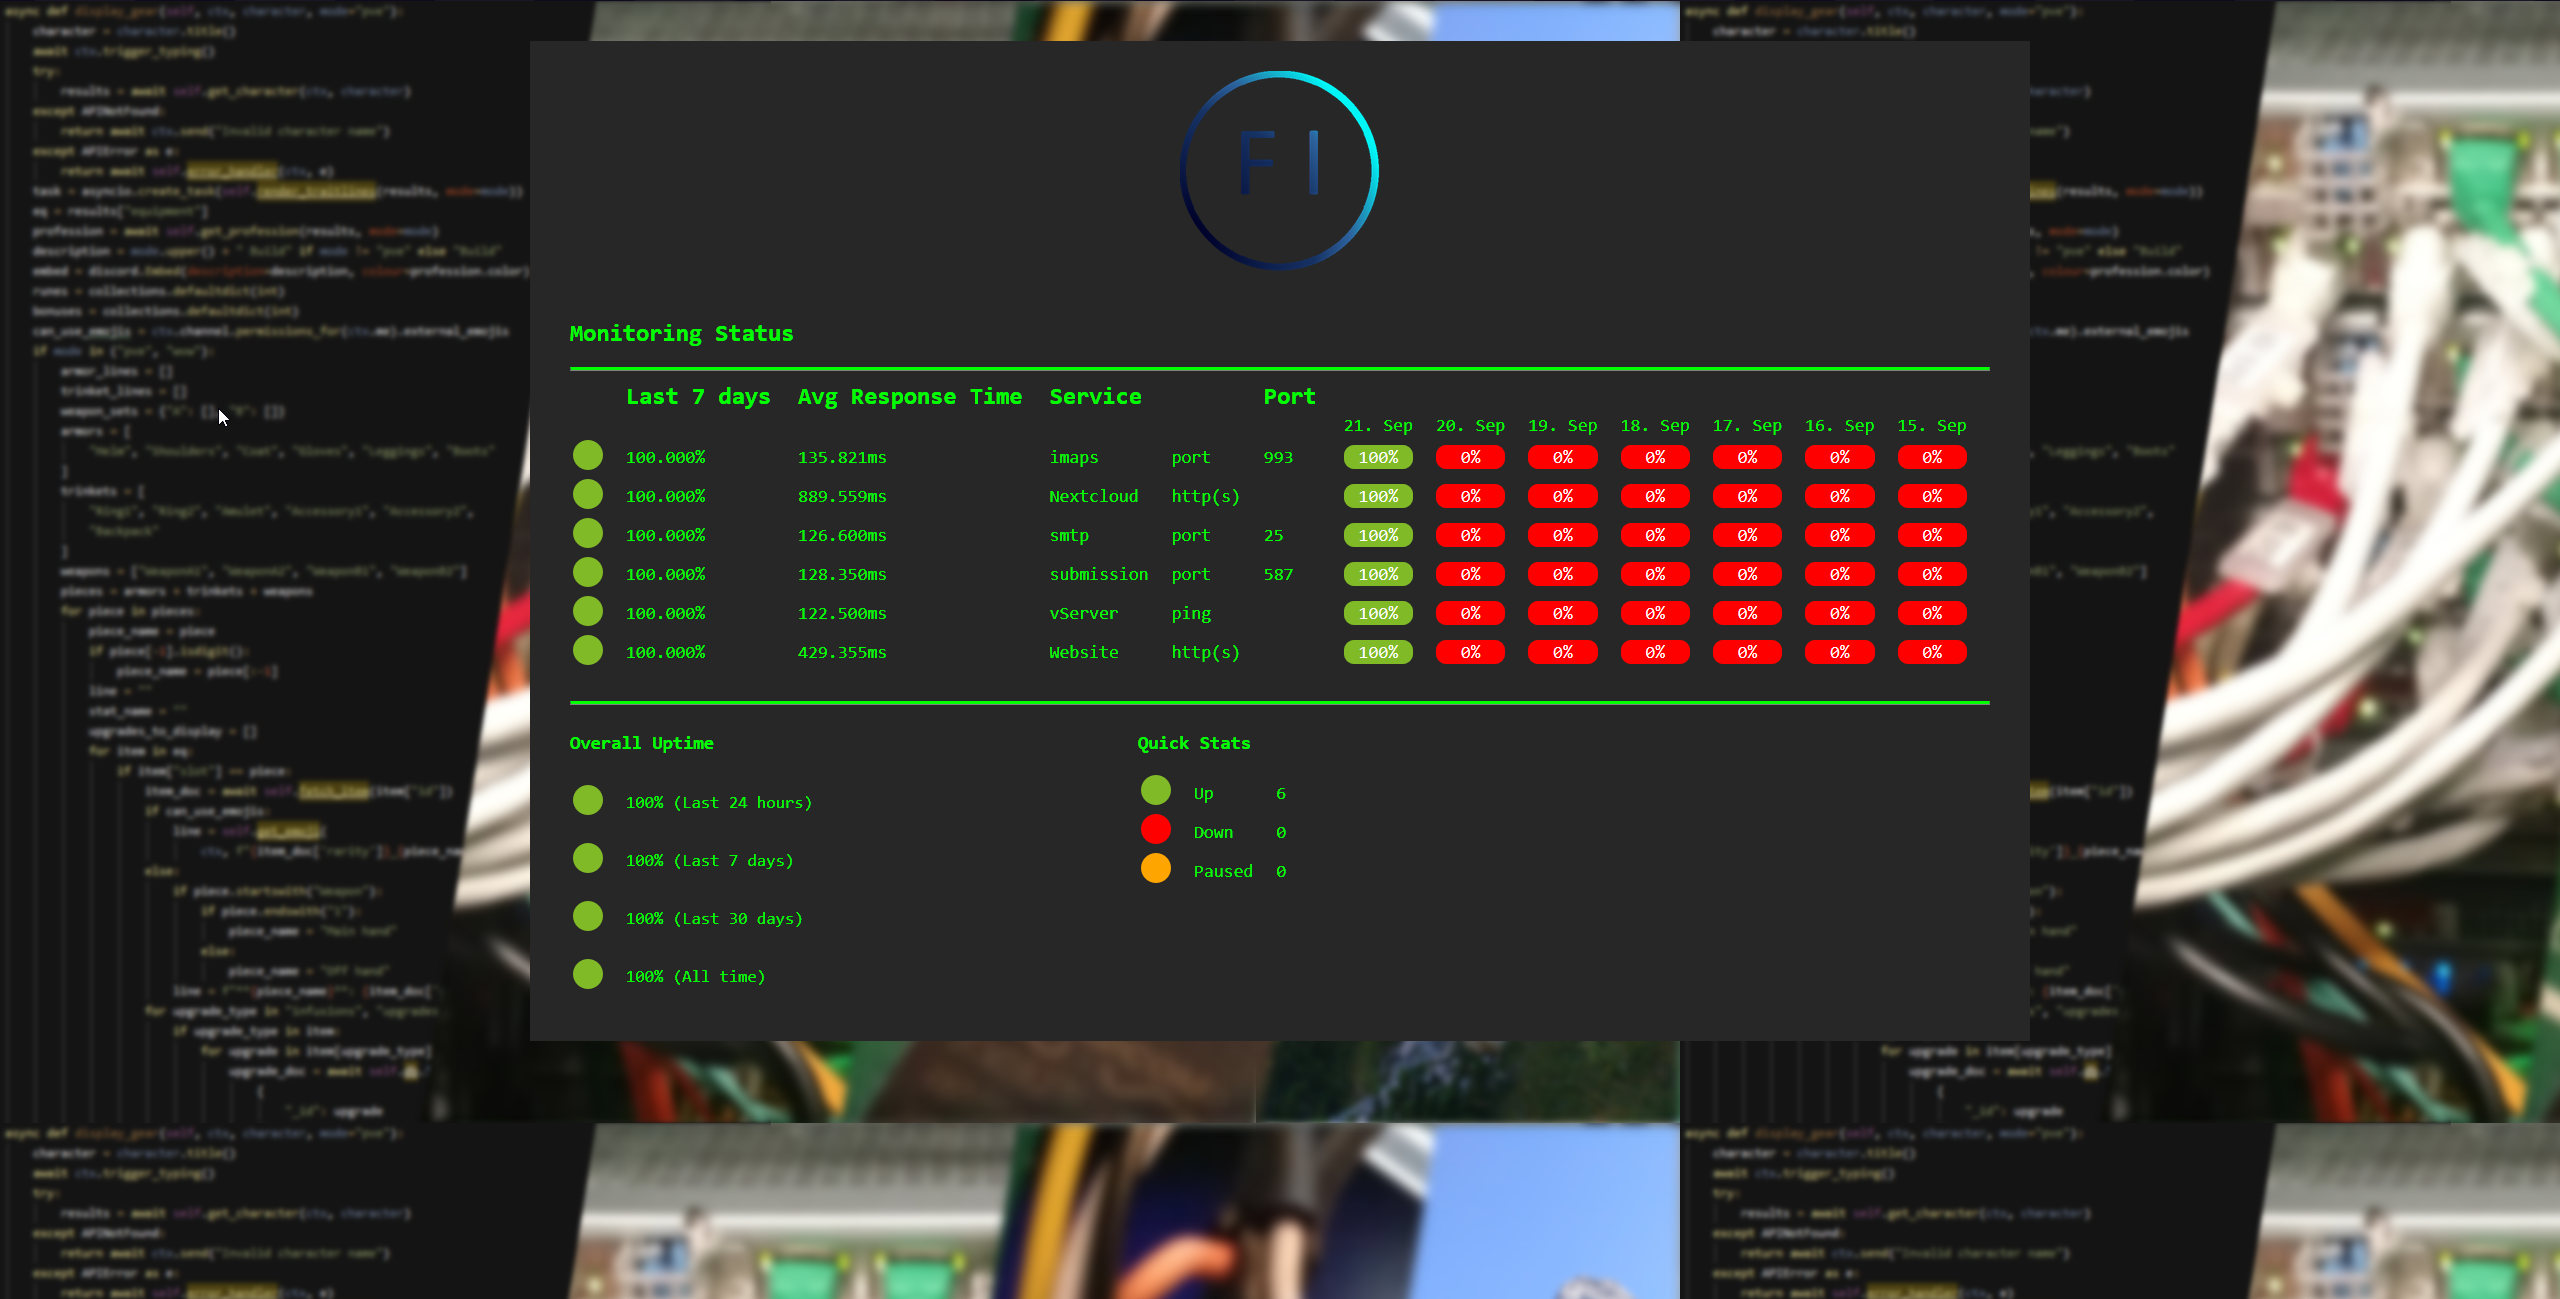
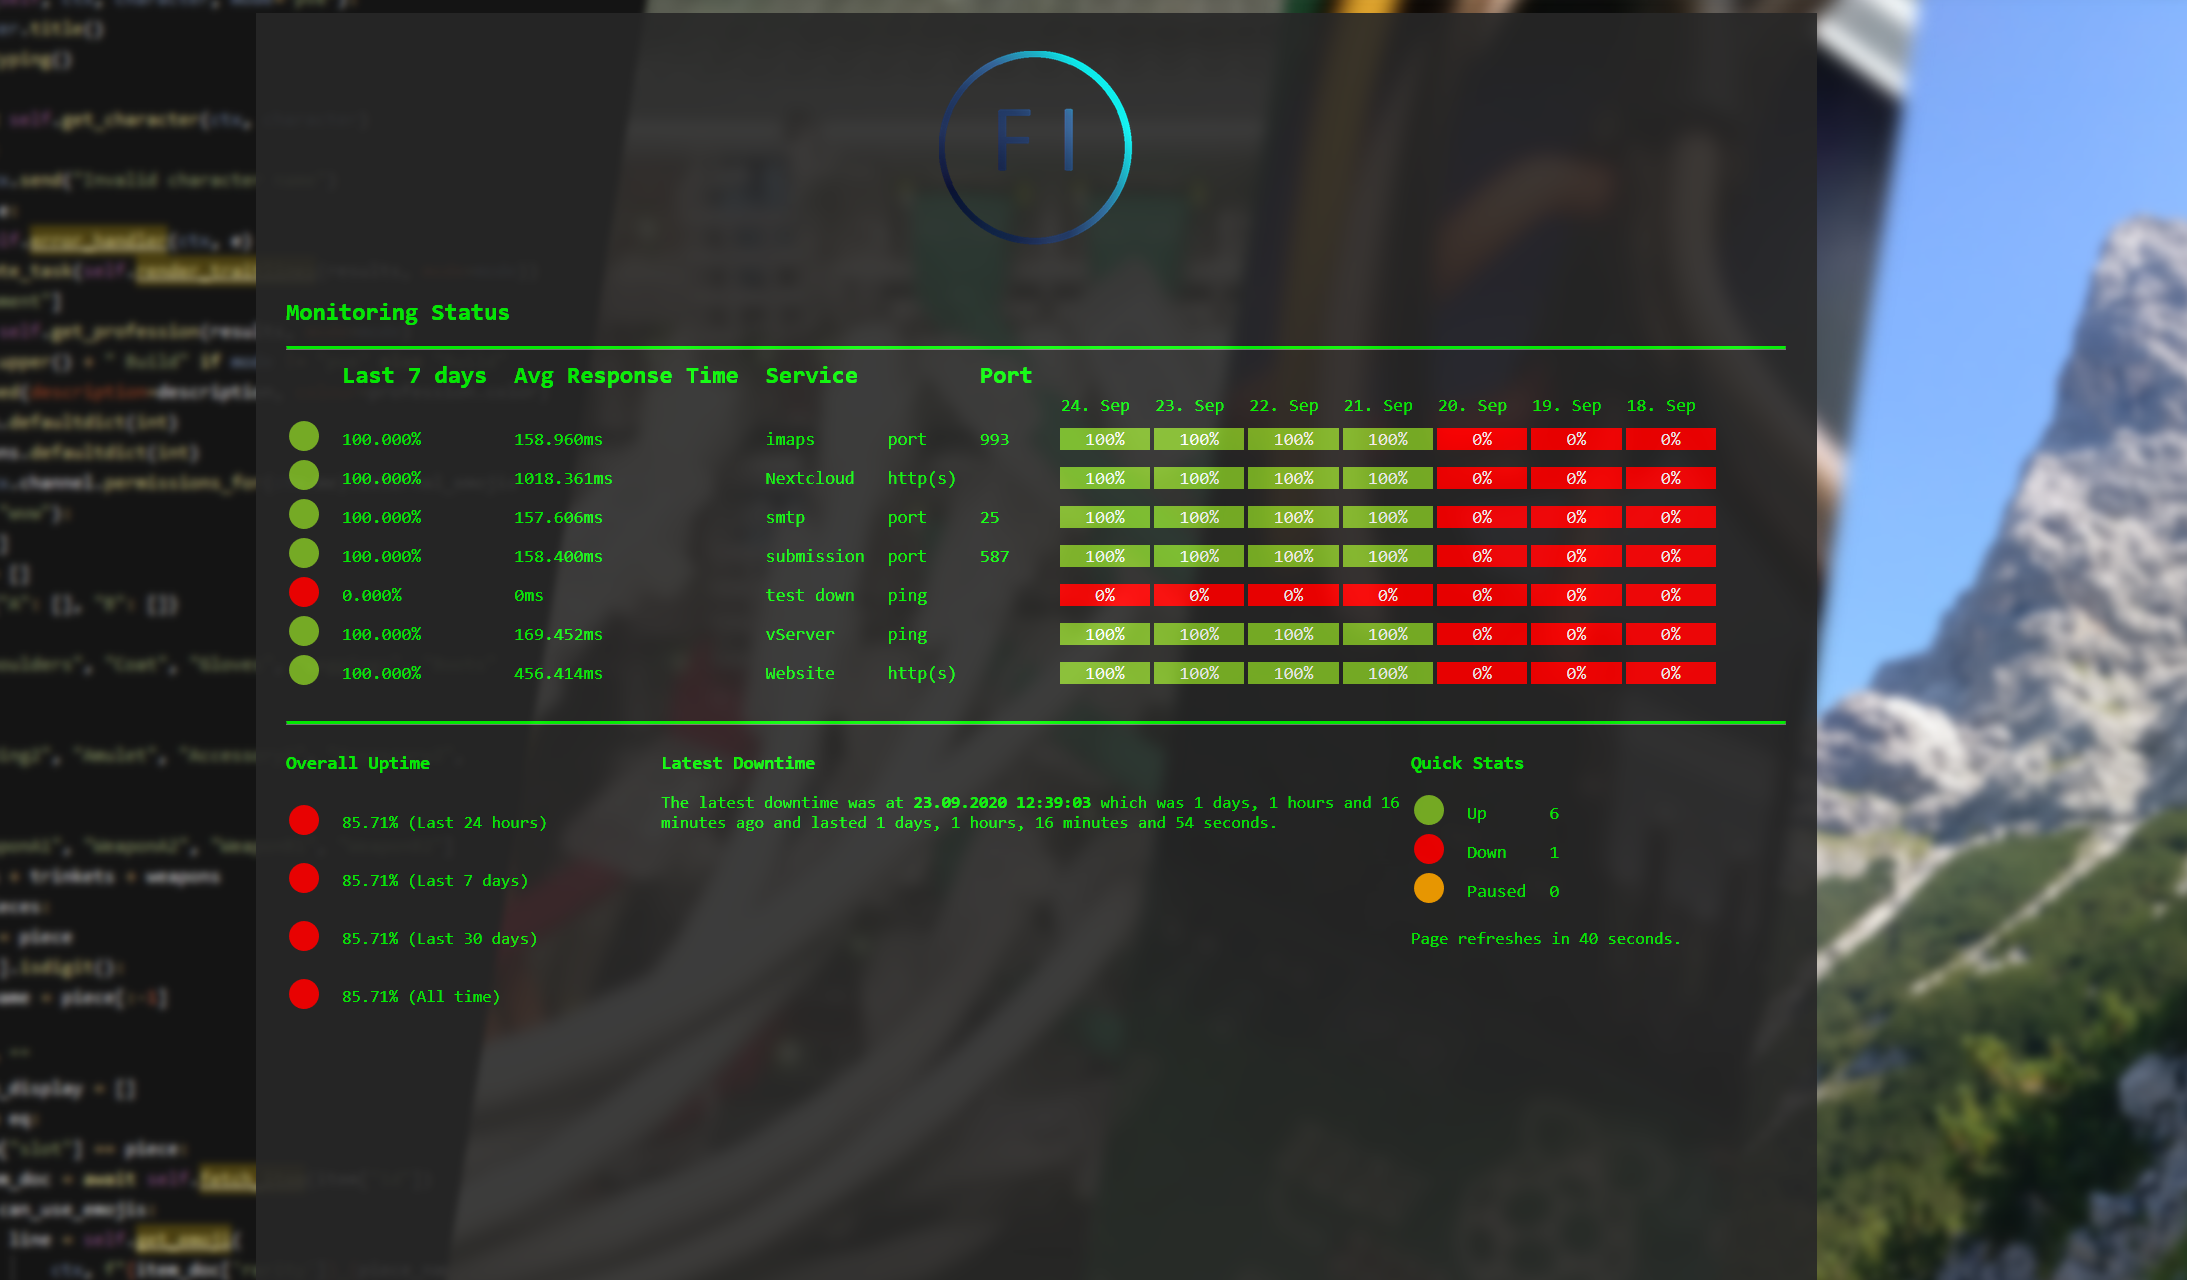
First attempt in making stuff responsive

diff --git a/status.css b/status.css
@@ -1,25 +1,59 @@
+html {
+  height: 100%;
+}
+
 body {
   max-width: 60%;
+  height: 100%;
   margin: auto;
   background-image: url("img/banner_filter.png");
+  background-attachment: fixed;
+  background-repeat: no-repeat;
+  background-size: cover;
   white-space: nowrap;
 }
 
+@media (max-width: 2000px) {
+  .desktop, .daily {
+    visibility: hidden;
+    padding: 0;
+    font-size: 0;
+  }
+  #leftbox, #middlebox, #rightbox{
+    float: none !important;
+  }
+
+  #content {
+    height: 150% !important;
+  }
+
+  .responseTime {
+    padding: 0;
+    font-size: 0;
+  }
+}
 #content {
-  background-color: #272727;
   padding-left: 2%;
   padding-right: 2%;
-  height: 1000px;
+  width: 100%;
+  max-width: 1500px;
+  height: 100%;
+  background-color: #272727;
+  opacity: 0.9;
 }
 
 #logo {
-  height: 20%;
+  height: 15%;
   margin-bottom: 1%;
   margin-top: 2%;
   padding-top: 2.5%;
   display: block;
   margin-left: auto;
   margin-right: auto;
+}
+
+#overview {
+  height: 20%;
 }
 
 p,

diff --git a/status.php b/status.php
@@ -25,9 +25,11 @@
 
         $monitors = callApi();
         createTable($monitors);
+        echo "<div id='overview'>";
         createUptimesSummaryTable($uptimes_sum, $uptimes_strings, $monitors);
         createQuickStatsTable($up, $down, $paused);
         createLastDownTimeTable($all_logs);
+        echo "</div>";
 
 
         function callApi()
@@ -117,7 +119,7 @@
                 echo "<tr>";
                 echo "<td><span class='bullet " . $bulletClass . "'></span></td>";
                 echo "<td>" . $uptime_7 . "%</td>";
-                echo "<td>" . $monitor["average_response_time"] . "ms </td>";
+                echo "<td class='desktop responseTime'>" . $monitor["average_response_time"] . "ms </td>";
                 echo "<td>" . $monitor["friendly_name"] . "</td>";
                 echo "<td>" . $types[$monitor["type"]] . "</td>";
                 echo "<td>" . $monitor["port"] . "</td>";
@@ -125,7 +127,7 @@
 
                 foreach ($uptimes_7_days as $day) {
                     $bulletClass = checkColor($day);
-                    echo "<td><div class='daily " . $bulletClass . "'>" . round($day, 2) . "%</div></td>";
+                    echo "<td class='daily desktop'><div class='" . $bulletClass . "'>" . round($day, 2) . "%</div></td>";
                 }
                 echo "</tr>";
             }
@@ -137,11 +139,11 @@
             echo "<hr>";
             echo "<div id='monitoring'>";
             echo "<table class='status'>";
-            echo "<tr><th></th><th>Last 7 days</th><th>Avg Response Time</th><th>Service</th><th></th><th>Port</th></tr>";
+            echo "<tr><th></th><th>Last 7 days</th><th class='desktop responseTime'>Avg Response Time</th><th>Service</th><th></th><th>Port</th></tr>";
             echo "<tr><td></td><td></td><td></td><td></td><td></td><td></td>";
             for ($i = 0; $i < 7; $i++) {
                 $dateString = date("d. M", time() - 60 * 60 * 24 * $i);
-                echo "<td>" . $dateString . "</td>";
+                echo "<td><div class='daily desktop'>" . $dateString . "</div></td>";
             }
             echo "</tr>";
 
